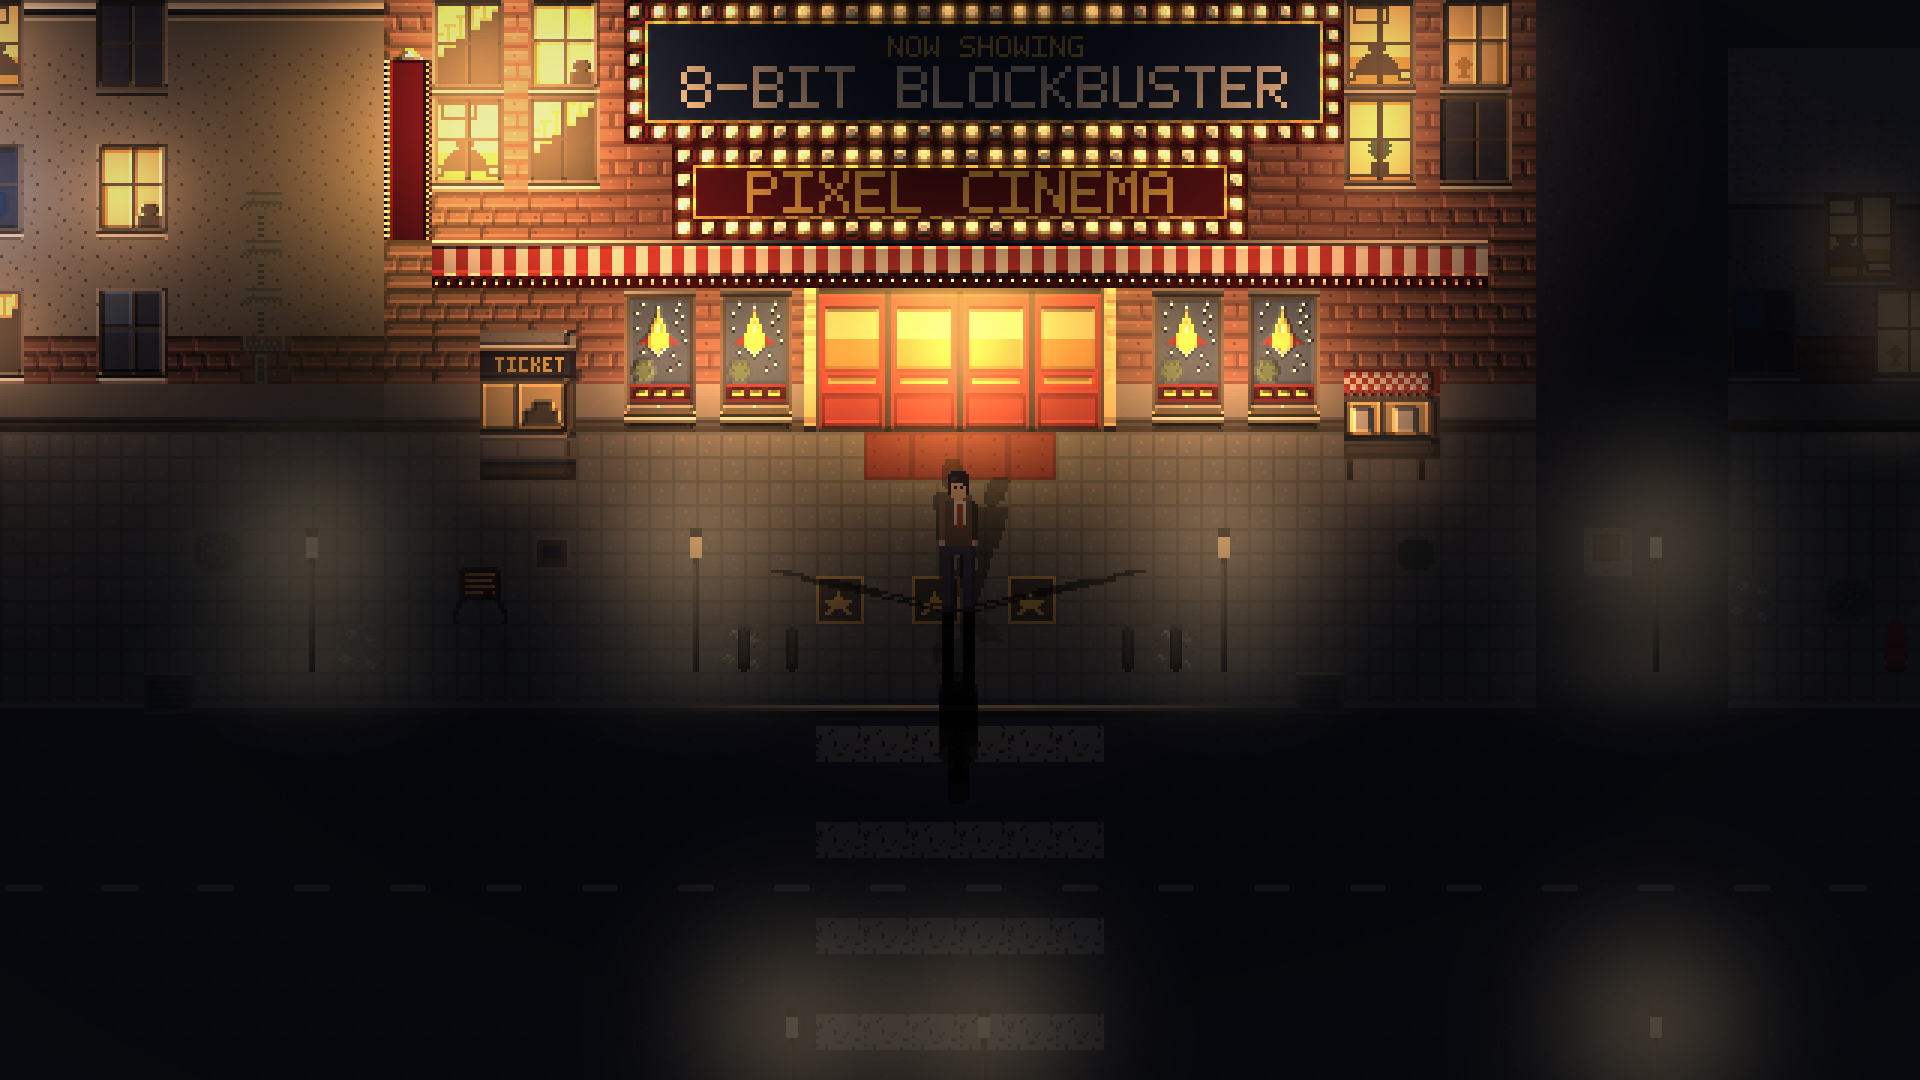
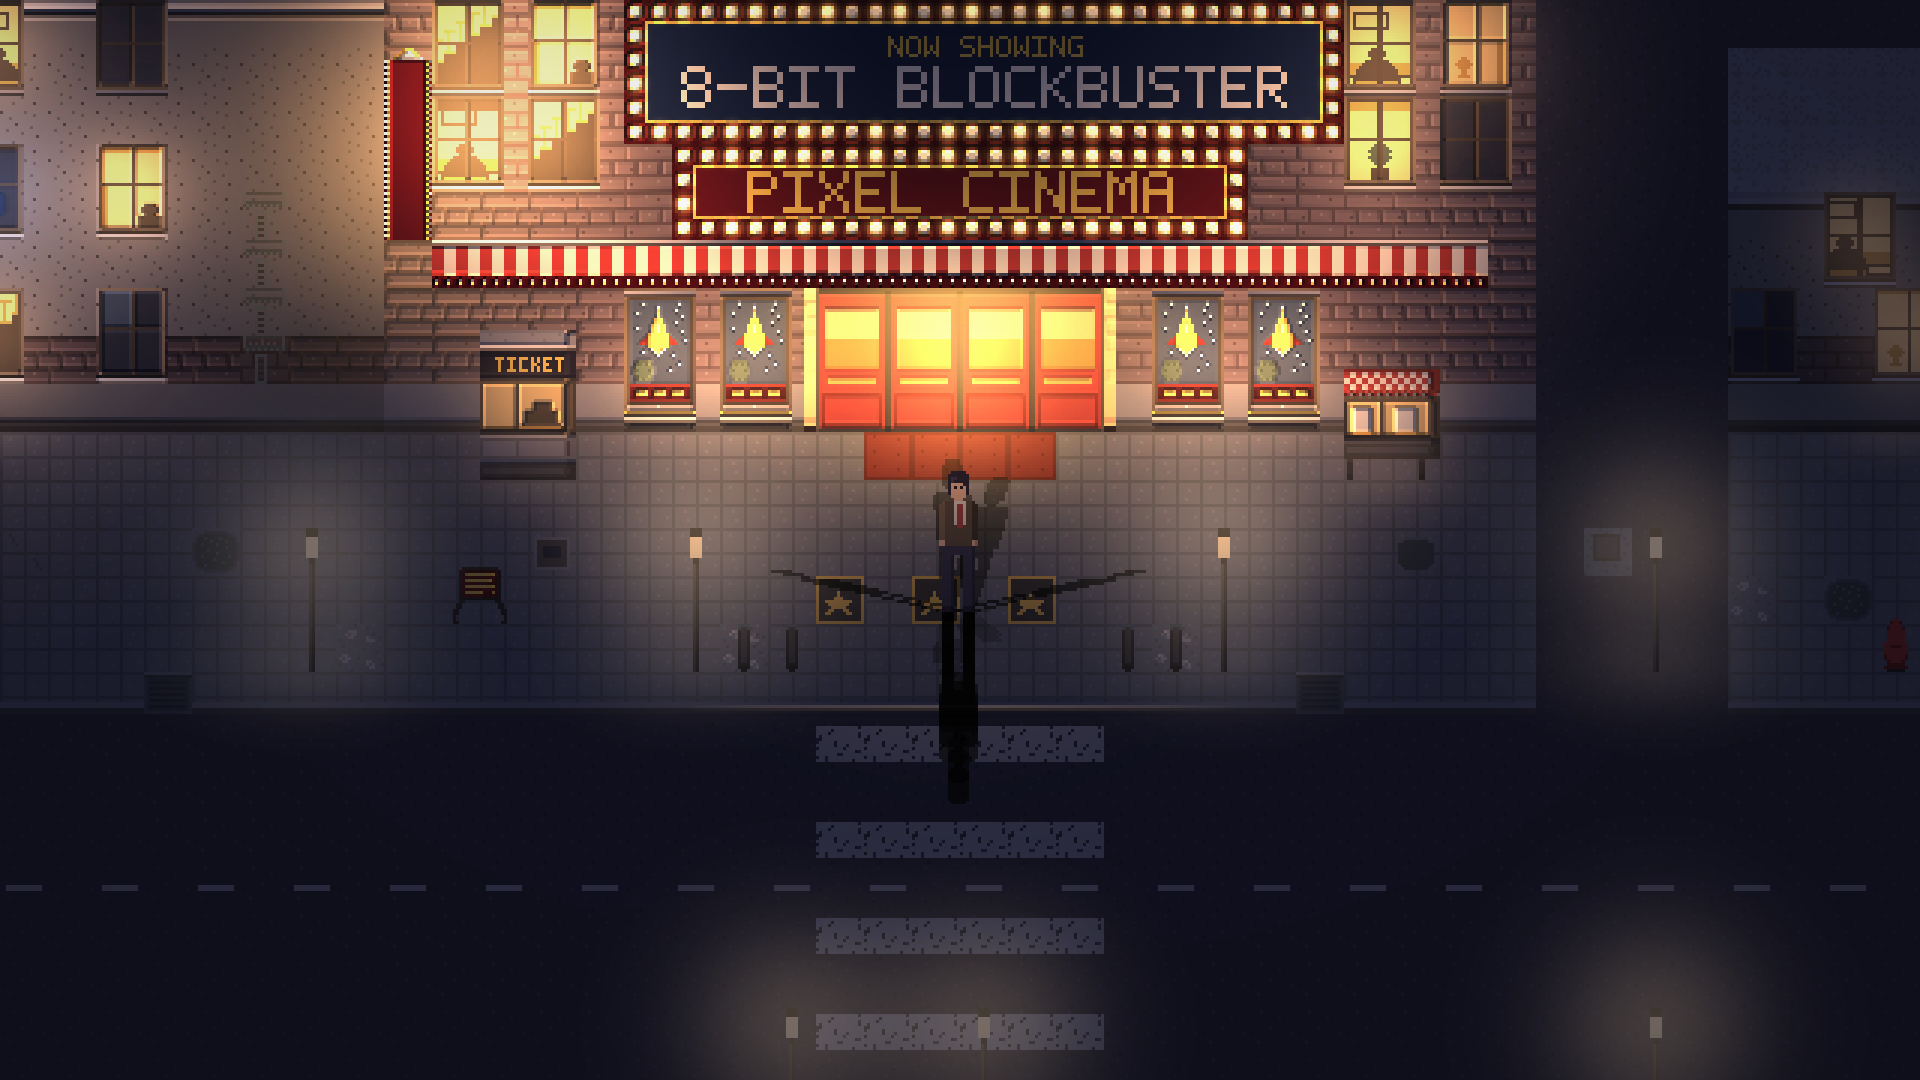
Take the warmth out of the paint and put it in the lamps
The street was painted warm and lit warm, so it had no hue contrast anywhere
and every frame collapsed into one band of orange. Measured against the
reference: our unlit pavement came out at B-R -10 (warm) where the reference
has +12 (cool), our brick sat at 68% saturation against its 37%, and our road
crushed to L=8 against its L=19, losing its own texture.

The mechanism is worth stating because it is not a matter of taste. Ambient
light MULTIPLIES. A material with no blue in it cannot be cooled by a blue
ambient -- `#7d5344` times a cool ambient is still orange, only darker -- so
a warm-painted street can only ever have warm shadows, no matter what the
lighting pass does. sun.js's NIGHT was already correctly cool and could not
show it.

So the paint is near-neutral now: masonry at 2-8% saturation, brick at 16%
because brick genuinely is the warm one and a warm lamp raises it to the high
thirties on screen anyway. Saturation is a budget and it is spent almost
entirely on things that EMIT -- the awning red, the marquee gold, the bulb
core, the lobby glow are all untouched. They are the only colourful objects
left, which is precisely what makes them read as the light sources.

NIGHT also comes up from 0.11/0.12/0.19 to 0.26/0.28/0.44, set against
measurement rather than taste: asphalt times this lands at L~16 and brick at
L~25, where the reference's genuinely-unlit surfaces sit. The old value took
[…]

diff --git a/src/game/tilemap/sun.js b/src/game/tilemap/sun.js
@@ -80,13 +80,32 @@ function lerpRGB([r1, g1, b1], [r2, g2, b2], t) {
 // Anchor tones. NIGHT and DAY are reused at every occurrence rather than each
 // getting its own shade -- one dark/cool tone, one bright/near-neutral tone,
 // and the transitions between them are what actually reads as day/night.
-const NIGHT = [0.11, 0.12, 0.19];   // dark and cool -- geometry still legible,
-                                     // but genuinely dark. An earlier, lighter
-                                     // night lifted the whole street to within
-                                     // a few values of the lit shopfronts, so
-                                     // nothing could read as *the* light source;
-                                     // a warm glow only looks like a glow when
-                                     // there is real darkness for it to sit in.
+const NIGHT = [0.26, 0.28, 0.44];   // dark and cool, but not crushed.
+                                     //
+                                     // The cool bias is load-bearing, not a
+                                     // mood: this is the only thing putting
+                                     // blue into an unlit surface, and it can
+                                     // only do that because the materials it
+                                     // multiplies are near-neutral now (see
+                                     // palette.mjs). Against the old warm
+                                     // paint the same numbers produced warm
+                                     // shadows, because multiplying cannot
+                                     // add a channel the material lacks.
+                                     //
+                                     // The *level* is set against measurement,
+                                     // not taste: asphalt (`a`, L=56) times
+                                     // this lands at L~16, and brick at L~25,
+                                     // which is where the reference frame's
+                                     // genuinely-unlit surfaces sit. A third
+                                     // of this was the previous value, and it
+                                     // took the road to L=8 -- black enough
+                                     // that its own texture disappeared and
+                                     // the street had no floor, only a void.
+                                     // Darkness that swallows detail is not
+                                     // contrast, it is missing information;
+                                     // what makes a lamp read as a lamp is
+                                     // the ratio between lit and unlit, and
+                                     // the reference holds that at under 2x.
 const DAY = [1.02, 1.00, 0.92];     // bright, faintly warm -- "as authored"
 const EVENING = [0.62, 0.44, 0.36]; // warm dusk. Warmer than the night that
                                      // follows it, so the hour before the
